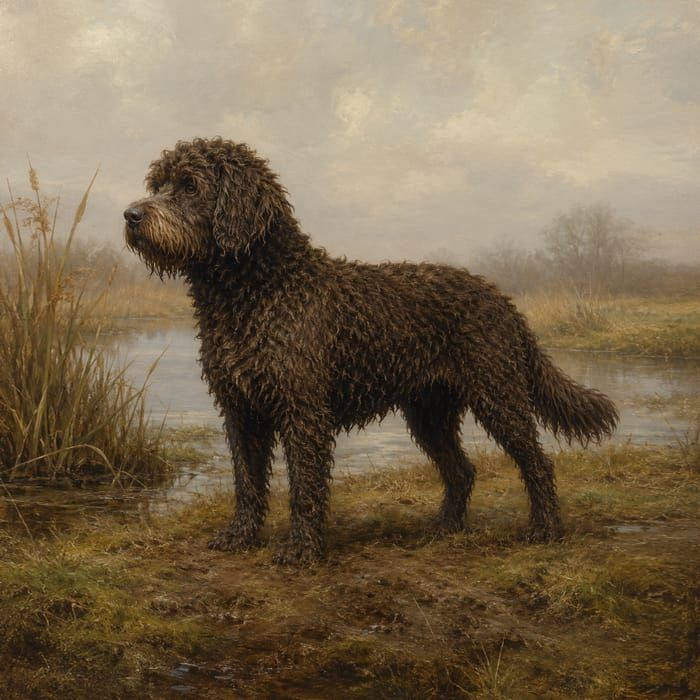
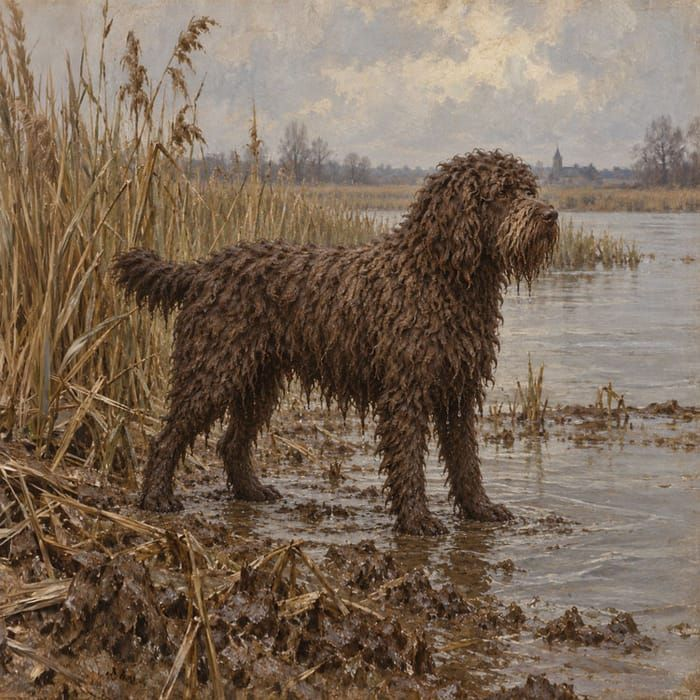
art: the European water dog gets the merged picture

diff --git a/data/imgVersion.ts b/data/imgVersion.ts
@@ -2,7 +2,11 @@
 // picture). Browsers and Vercel's CDN cache images by their full URL, so a
 // replaced file keeps serving the old cached version until the URL changes.
 // Adding ?v=<this> makes every image a fresh URL, forcing a clean refetch.
-export const IMG_VERSION = 3;
+/* 3 -> 4, 20 September 2026: the Old European water dog's artwork was replaced
+   in place when the Barbet merged into it, so one picture now has to stand for
+   England's Great Water Dog, Germany's Pudelhund and France's Barbet. Same
+   filename, new picture, which is exactly the case this constant exists for. */
+export const IMG_VERSION = 4;
 
 // Append the version query to a site-relative image path. Idempotent, and it
 // leaves data URLs and already-versioned URLs untouched.
